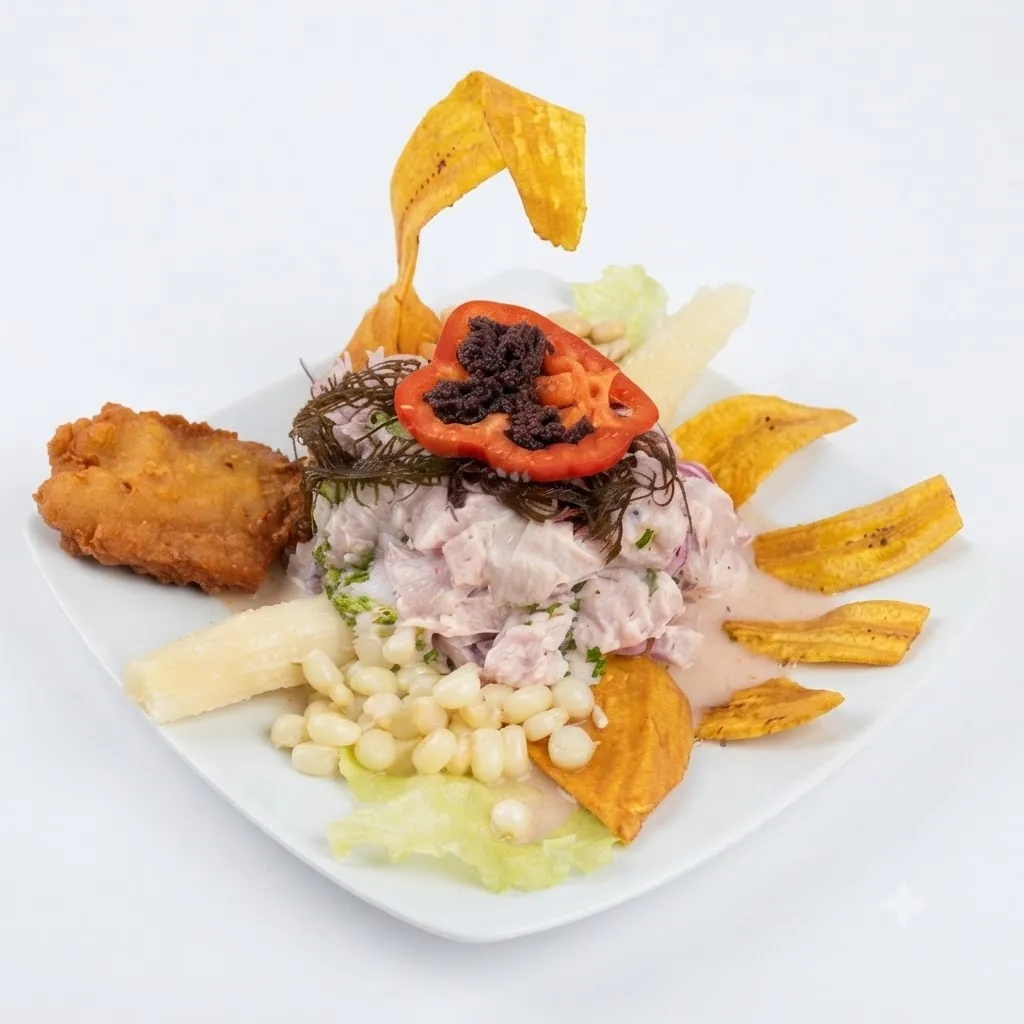
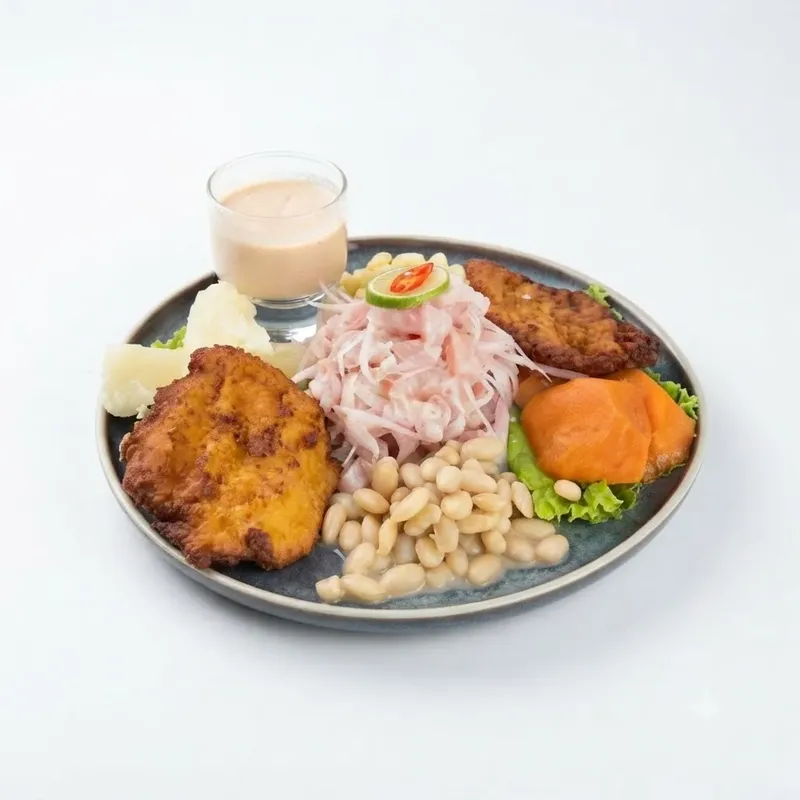
Update images for Ceviche de Toyo and Ceviche Mixto (WebP optimized) & update Google Apps Script WEB_APP_URL for loyalty and reviews

diff --git a/src/services/googleSheets.ts b/src/services/googleSheets.ts
@@ -78,7 +78,7 @@ export const fetchSheetData = async <T>(sheetName: string): Promise<T[]> => {
 };
 
 // Configura aquí la URL de tu Google Apps Script Web App para poder enviar datos
-export const WEB_APP_URL = 'https://script.google.com/macros/s/AKfycbxVL5HWpvyn2UPRdLMgwcJISDQ8apWvGr42uM86AXzqw7OhvbVU9dOJCoR1e7mdyVXn/exec';
+export const WEB_APP_URL = 'https://script.google.com/macros/s/AKfycbztWIlPPU48pzGo9jY52izMTDTDo-pCZTtikF1bWJjzqBUHfnrWJXTwoAPfOuAHbOE/exec';
 
 export const submitSheetData = async (sheetName: string, data: any): Promise<boolean> => {
   if (!WEB_APP_URL) {
@@ -91,7 +91,7 @@ export const submitSheetData = async (sheetName: string, data: any): Promise<boo
       method: 'POST',
       mode: 'no-cors', // Importante para evitar problemas de CORS con Apps Script
       headers: {
-        'Content-Type': 'application/json',
+        'Content-Type': 'text/plain;charset=utf-8',
       },
       body: JSON.stringify({
         sheetName,
